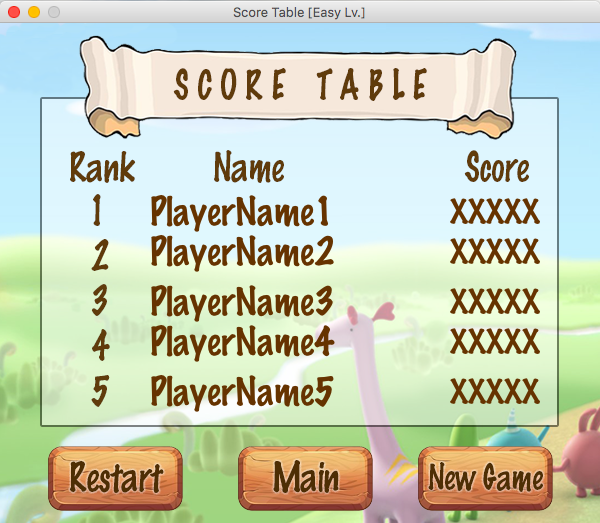
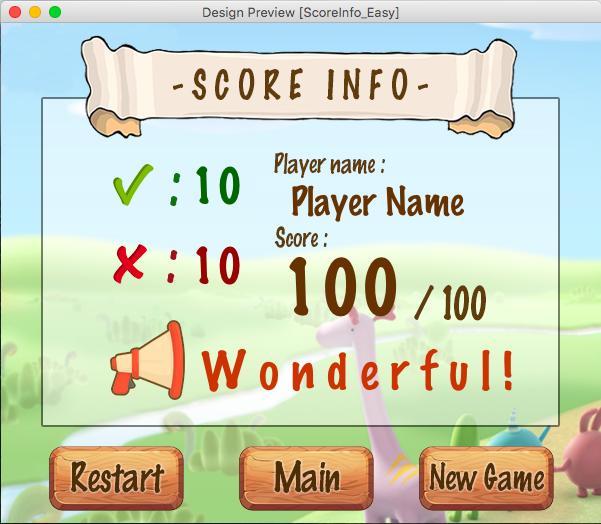
Change README

diff --git a/README.md b/README.md
@@ -43,8 +43,8 @@ This application is a language game that words in English are altered by adding 
 ![H](gameScreenShotandFont/Frame7.png)
         
     
-### Score Table
-The score table will show top 5 player's names and scores.
+### Score Info 
+Score Info will show correct and wrong amount of players, name score and some word depends on what score players got.
     
 ![ST](gameScreenShotandFont/Frame9.png)
     
